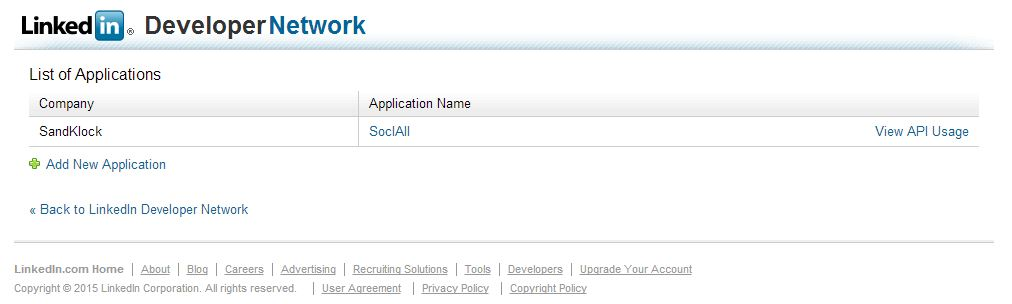
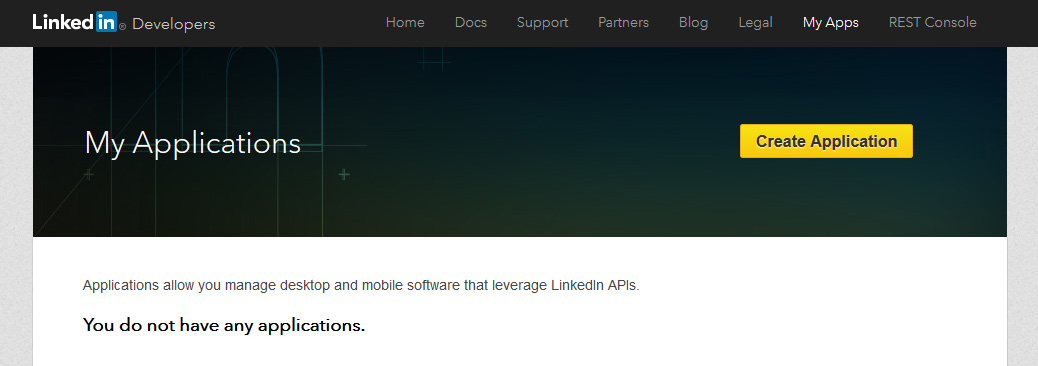
Update linkedin setting docs

diff --git a/docs/user-guide/linkedin.md b/docs/user-guide/linkedin.md
@@ -6,17 +6,17 @@ __To register an application on LinkedIn, please follow the steps below:__
     <div class="soclall-br"></div>
 2. Press button "Add New Application" and fill the application form with the below information
     * Website URL: __http://soclall.com/__
-    * OAuth 2.0 Redirect URLs: __http://api.soclall.com/callback__
-    * Live Status: Live
-3. In session "OAuth User Agreement", please check
-    * r_fullprofile: if you want to use "SoclAll Login"
-    * r_emailaddress & r_contactinfo: if you want to use "SoclAll Invite"
-    * w_messages: if you want to use "SoclAll Posting"
-4. Then check to agreement checkbox and press button "Add Application"
+3. Then check to agreement checkbox and press button "Submit".
     <div class="soclall-br"></div>
     ![Linkedin : Create App Form](/img/linkedin-2-create-app-form.jpg)
     <div class="soclall-br"></div>
-5. After successfully registered the application, you can get the "API Key" and "Secret Key" to fill SoclAll LinkedIn Settings form.
+4. Then, select menu "Authentication" and go to "Authentication" page.
+5. In session "Default Application Permissions", please check:
+    * r_fullprofile: if you want to use "SoclAll Login"
+    * r_emailaddress: if you want to use "SoclAll Invite"
+    * w_share: if you want to use "SoclAll Posting"
+6. In session "OAuth 2.0", fill "Authorized Redirect URLs" field: __http://api.soclall.com/callback__ and press button "Update".
     <div class="soclall-br"></div>
-    ![Linkedin : Create Success Form](/img/linkedin-3-create-success-form.JPG)
-    <div class="soclall-br"></div>
+    ![Linkedin : Authentication Page](/img/linkedin-3-authentication-page.jpg)
+    <div class="soclall-br"></div>    
+7. In "Authentication" page, you can get the "Client ID" and "Client Secret" to fill SoclAll LinkedIn Settings form.
